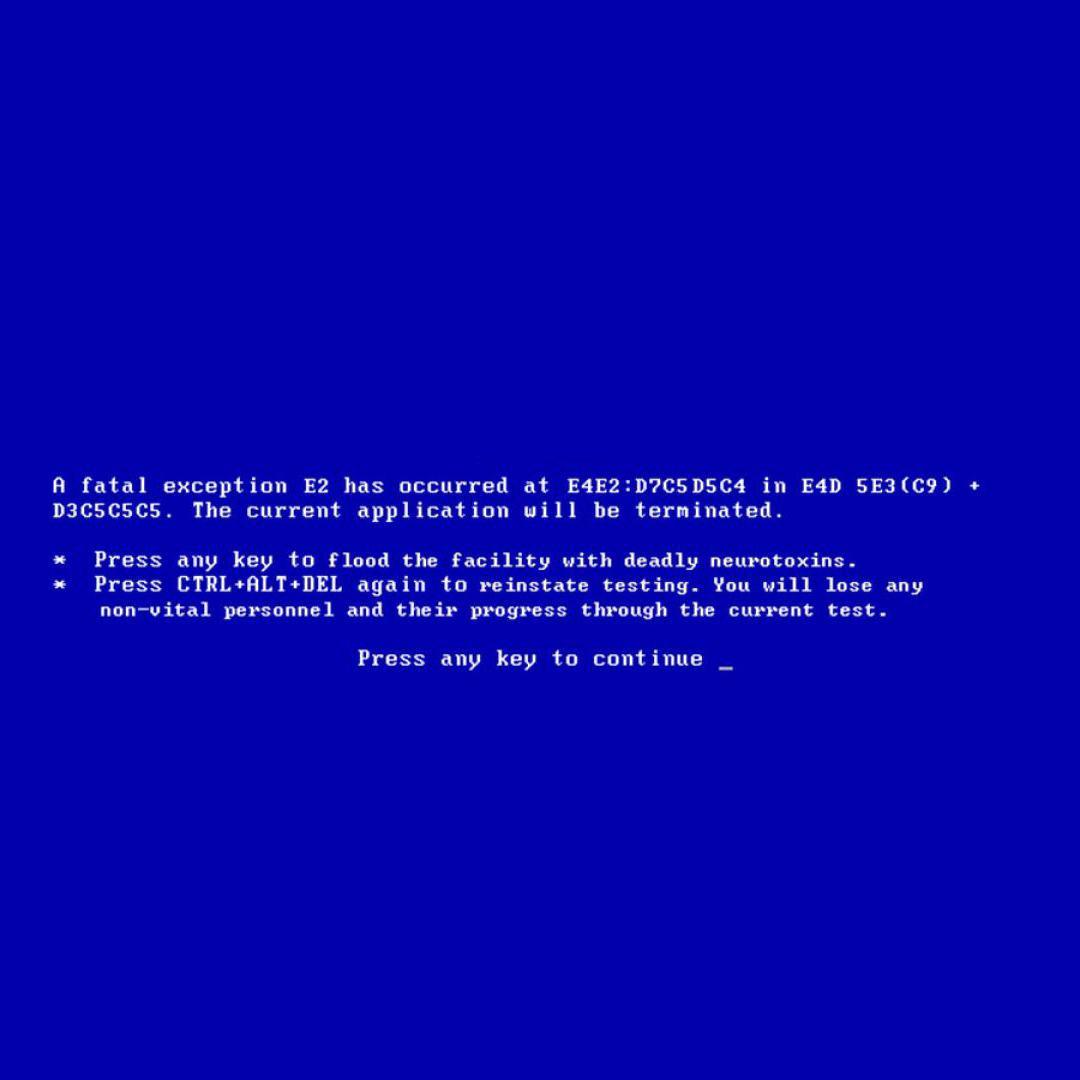
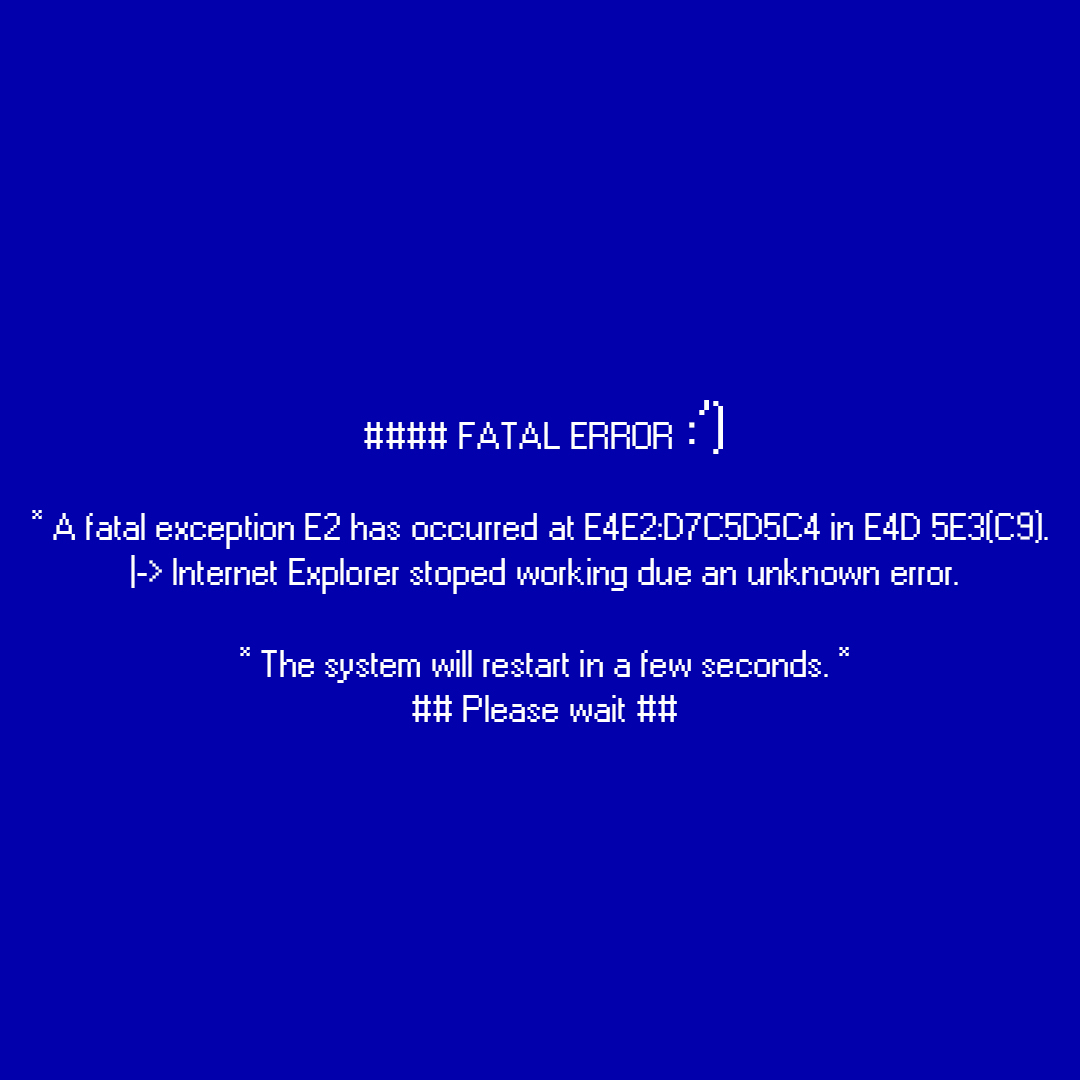
update

Changed region(s): [[0.0306, 0.3667, 0.9778, 0.6722]]

diff --git a/index.html b/index.html
@@ -57,21 +57,21 @@
 		<div class="window closed" data-title="Thomas Fresco">
 			<h1>Nome</h1>
 			<p>Thomas Pereira Fresco</p>
-			<h1>Idade</h1>
-			<p>21 anos</p>
-			<h1>Contactos</h1>
-			<p>934696669</p>
-			<p>thomas@fresco.pt</p>
+			<h1>Data de Nascimento</h1>
+			<p>6 de fevereiro de 2001</p>
 			<h1>Nacionalidade</h1>
 			<p>Portuguesa/Francesa (dupla)</p>
 			<h1>Naturalidade</h1>
 			<p>Coimbra, Portugal</p>
 			<h1>Formação</h1>
 			<p>Licenciatura em Engenharia Informática na Faculdade de Ciências e Tecnologia da Universidade de Coimbra (FCTUC)</p>
+			<h1>Contactos</h1>
+			<p>934696669</p>
+			<p>thomas@fresco.pt</p>
 			<h1>Outras Informações</h1>
 			<li>Músico-produtor</li>
 			<li>Fotógrafo amador</li>
-			<li>Aspirante de Designer</li>
+			<li>Aspirante a Designer</li>
 			<li>Canhoto ferrenho</li>
 			<li>Vegetariano em construção</li>
 
@@ -88,9 +88,9 @@
 			<li>C++</li>
 			<li>Matlab</li>
 			<li>Assembly (MIPS)</li>
-			<li>Python (extra: django framework)</li>
-			<li>Java (extra: Spring Initializer framework)</li>
-			<li>PostgreSQL (extra: Postman API Platform)</li>
+			<li>Python (+ django framework)</li>
+			<li>Java (+ Spring Boot framework)</li>
+			<li>PostgreSQL (+ Postman API Platform)</li>
 
 		</div>
 		<div class="window closed" data-title="Arduino">
@@ -165,13 +165,13 @@
 			<br>
 			<h1>Experimental</h1>
 			<hr />
-			<p>A janela "experimental.gif" alterna entre 2 duas imagens, um "antes" e um "depois". O "antes" traduz-se na fotografia em ambiente de loja (por editar). 
-				O "depois" tem como núcleo a mesma imagem, trabalhada com base em recorte, sobreposição de novas camadas e colorgrade. 
+			<p>A janela "experimental.gif" alterna entre 2 imagens, um "antes" e um "depois". O "antes" traduz-se na fotografia original, em ambiente de loja. 
+				O "depois" tem como base a mesma imagem, trabalhada com base em recorte, sobreposição de novas camadas e colorgrade. 
 			</p>
 			<br>
 			<h1>Objeto</h1>
 			<hr />
-			<p>A janela "objeto.gif" alterna entre 2 duas fotografias de duas obras expostas no Museu Nacional de Arte da Catalunha, em Barcelona.</p>
+			<p>A janela "objeto.gif" alterna entre 2 fotografias de 2 obras expostas no Museu Nacional de Arte da Catalunha, em Barcelona.</p>
 			<br>
 			<h1>Software</h1>
 			<hr />
@@ -192,7 +192,6 @@
 			<h1>Software</h1>
 			<hr />
 			<li>Adobe Premiere Pro</li>
-			<li>Adobe Animate</li>
 		</div>
 		<div class="window closed" data-title="Info">
 			<h1>Referências</h1>
@@ -430,7 +429,7 @@
 					x
 				</div>
 			</div>
-			<a href="https://youtu.be/GDcF45imVDI" target="_blank" rel="noopener noreferrer">
+			<a href="https://youtu.be/kOiXaVtIhzk" target="_blank" rel="noopener noreferrer">
 				<div class="exeContent" style="padding-top: 4px;">
 			    <div class="imageContainer">
 					<img src="pictures/cover.JPG" alt="cover" width="300">

diff --git a/script.js b/script.js
@@ -534,6 +534,7 @@ function closePopup(id) {
 $(document).ready(function () {
 
 	if (/Android|webOS|iPhone|iPad|iPod|BlackBerry|IEMobile|Opera Mini/i.test(navigator.userAgent)) {
+		document.getElementById("blue").src = "pictures/blueScreen2.jpg";
 		document.querySelector('[id="blueScreen"]').style.display = "block";
 		document.querySelector('[id="blueScreen"]').style.margin = "auto";
 		let aux1 = 1080*(w*0.0015);

diff --git a/style.css b/style.css
@@ -220,7 +220,7 @@ input,select{vertical-align:middle}
     /*margin: 2px;*/
     font-family: windowsFont;
     font-size: 18px;
-    text-align: justify;
+    /*text-align: justify;*/
     background: #EEE;
 	border-radius: 0 0 1px 1px;
     overflow-y: scroll;
